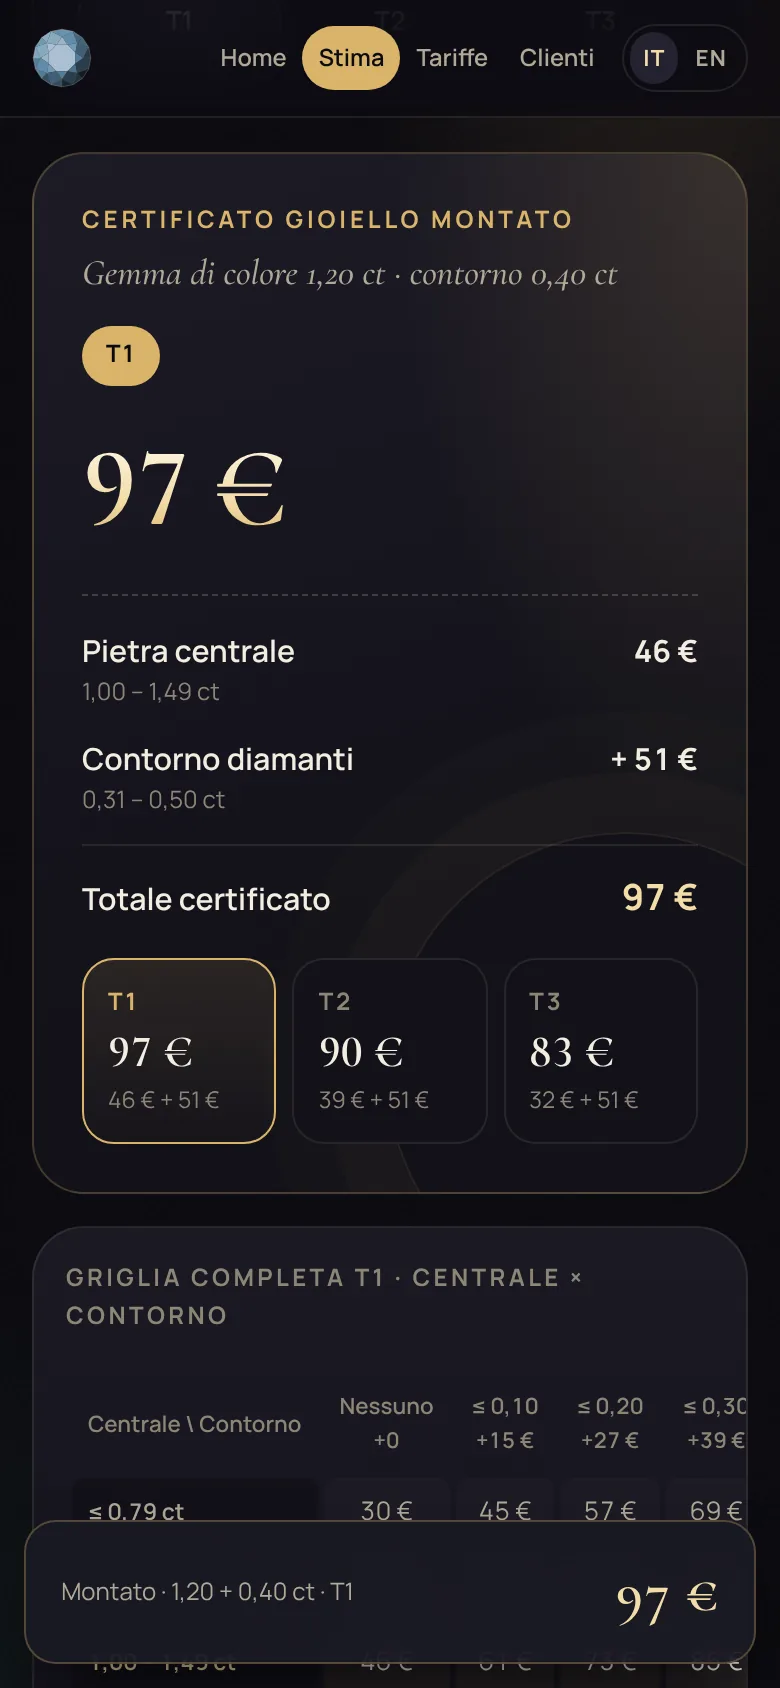
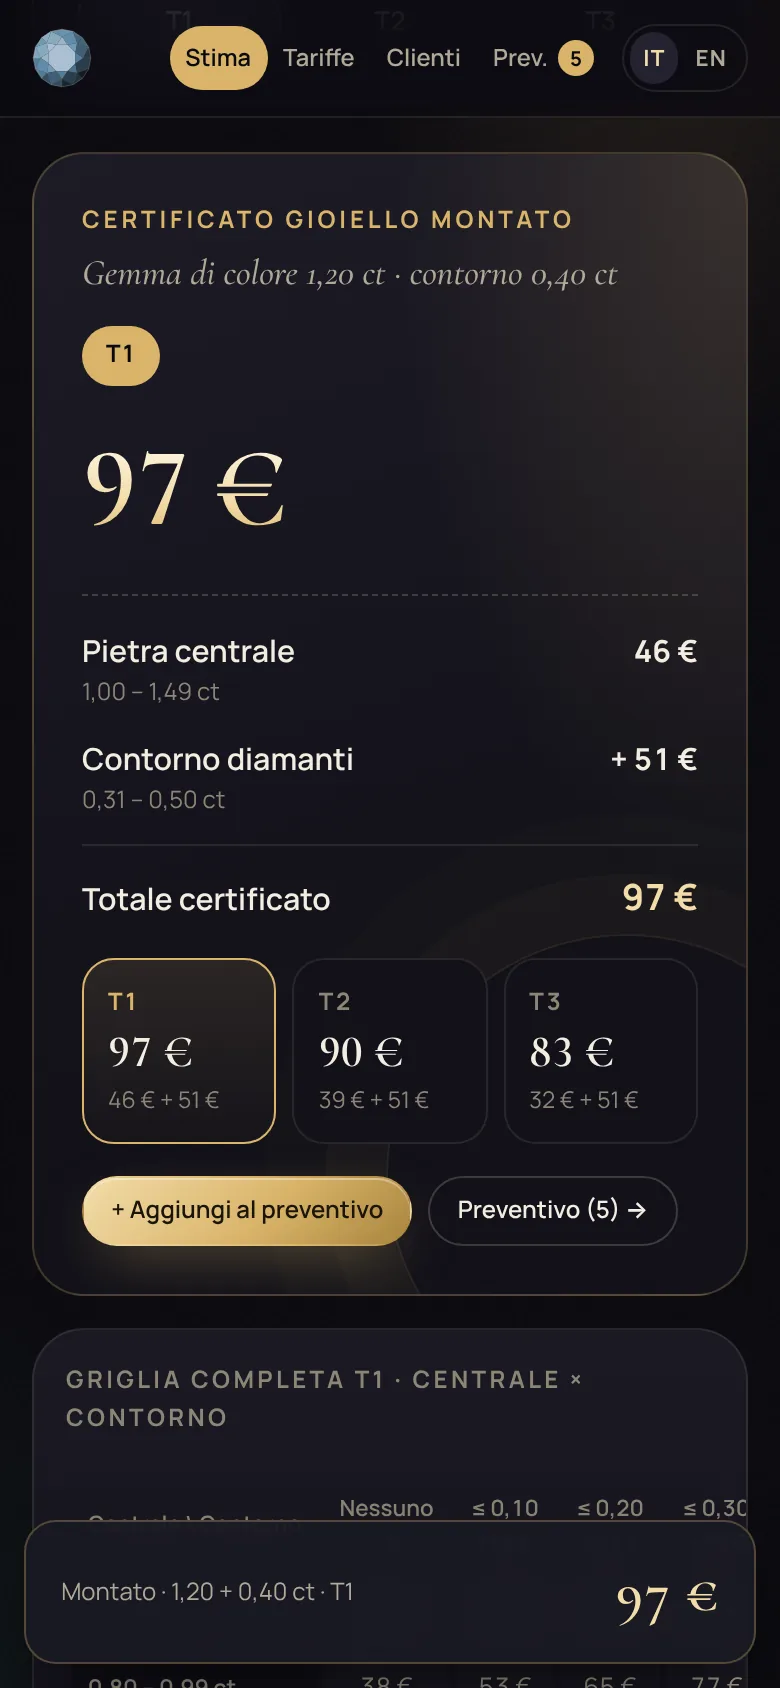
README: schermate rifatte con il preventivo
Tutte le schermate rigenerate con lo stesso tariffario dimostrativo,
ora con la voce «Preventivo» nel menu e il pulsante «+ Aggiungi al
preventivo». Nuove schermate: pagina Preventivo, foglio di stampa e
preventivo da smartphone.

Claude-Session: https://claude.ai/code/session_01E7R9ZscfrbF4nba4Fm3Ntg

diff --git a/README.md b/README.md
@@ -94,6 +94,16 @@ Il link contiene solo i prezzi effettivi di quel cliente, compressi, e li traspo
 
 ![Stima montato con gemma di colore](docs/screenshots/montato.webp)
 
+### Preventivo con più pezzi
+
+**Preventivo** — pezzi di tipo diverso nello stesso preventivo, con quantità, riferimenti, tier del preventivo, totale T1 · T2 · T3 e archivio:
+
+![Pagina Preventivo](docs/screenshots/preventivo.webp)
+
+**Stampa / PDF** — foglio pulito da consegnare al cliente, senza tier:
+
+![Preventivo stampato](docs/screenshots/stampa.webp)
+
 ### Clienti e versione pubblica
 
 <table>
@@ -116,14 +126,16 @@ Il link contiene solo i prezzi effettivi di quel cliente, compressi, e li traspo
   </tr>
 </table>
 
-**Da smartphone** — home, stima con totale sempre visibile e vista del cliente:
+**Da smartphone** — home, stima con totale sempre visibile, preventivo e vista del cliente:
 
 <p align="center">
-  <img src="docs/screenshots/m-home.webp" alt="Home da smartphone" width="250">
+  <img src="docs/screenshots/m-home.webp" alt="Home da smartphone" width="200">
   &nbsp;
-  <img src="docs/screenshots/m-montato.webp" alt="Stima montato da smartphone" width="250">
+  <img src="docs/screenshots/m-montato.webp" alt="Stima montato da smartphone" width="200">
   &nbsp;
-  <img src="docs/screenshots/m-pubblica.webp" alt="Vista cliente da smartphone" width="250">
+  <img src="docs/screenshots/m-preventivo.webp" alt="Preventivo da smartphone" width="200">
+  &nbsp;
+  <img src="docs/screenshots/m-pubblica.webp" alt="Vista cliente da smartphone" width="200">
 </p>
 
 ---
